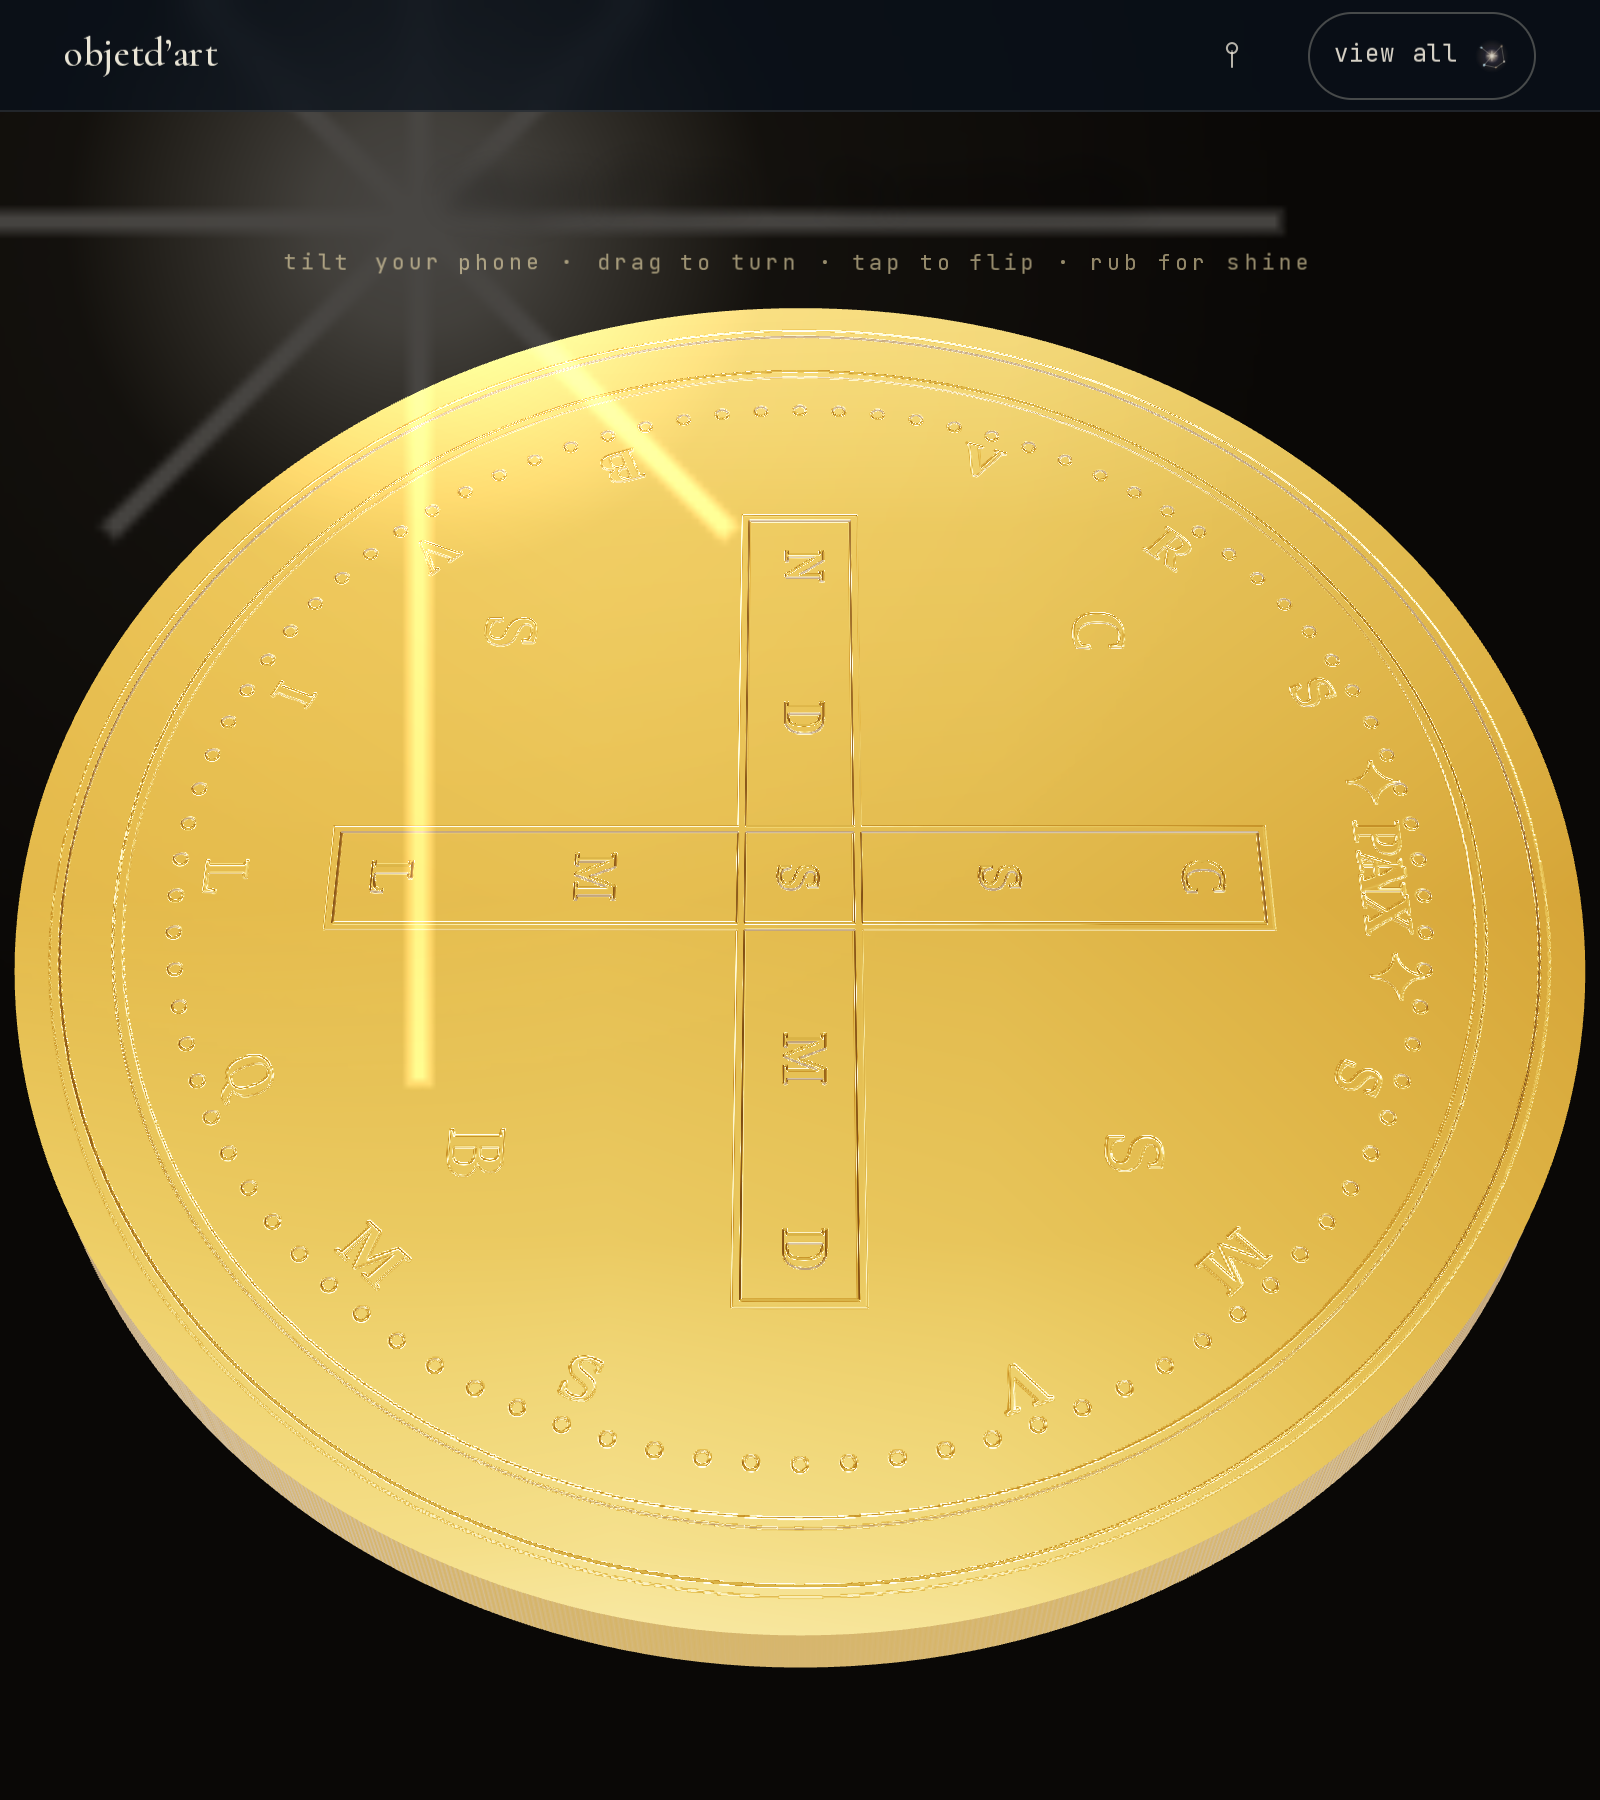
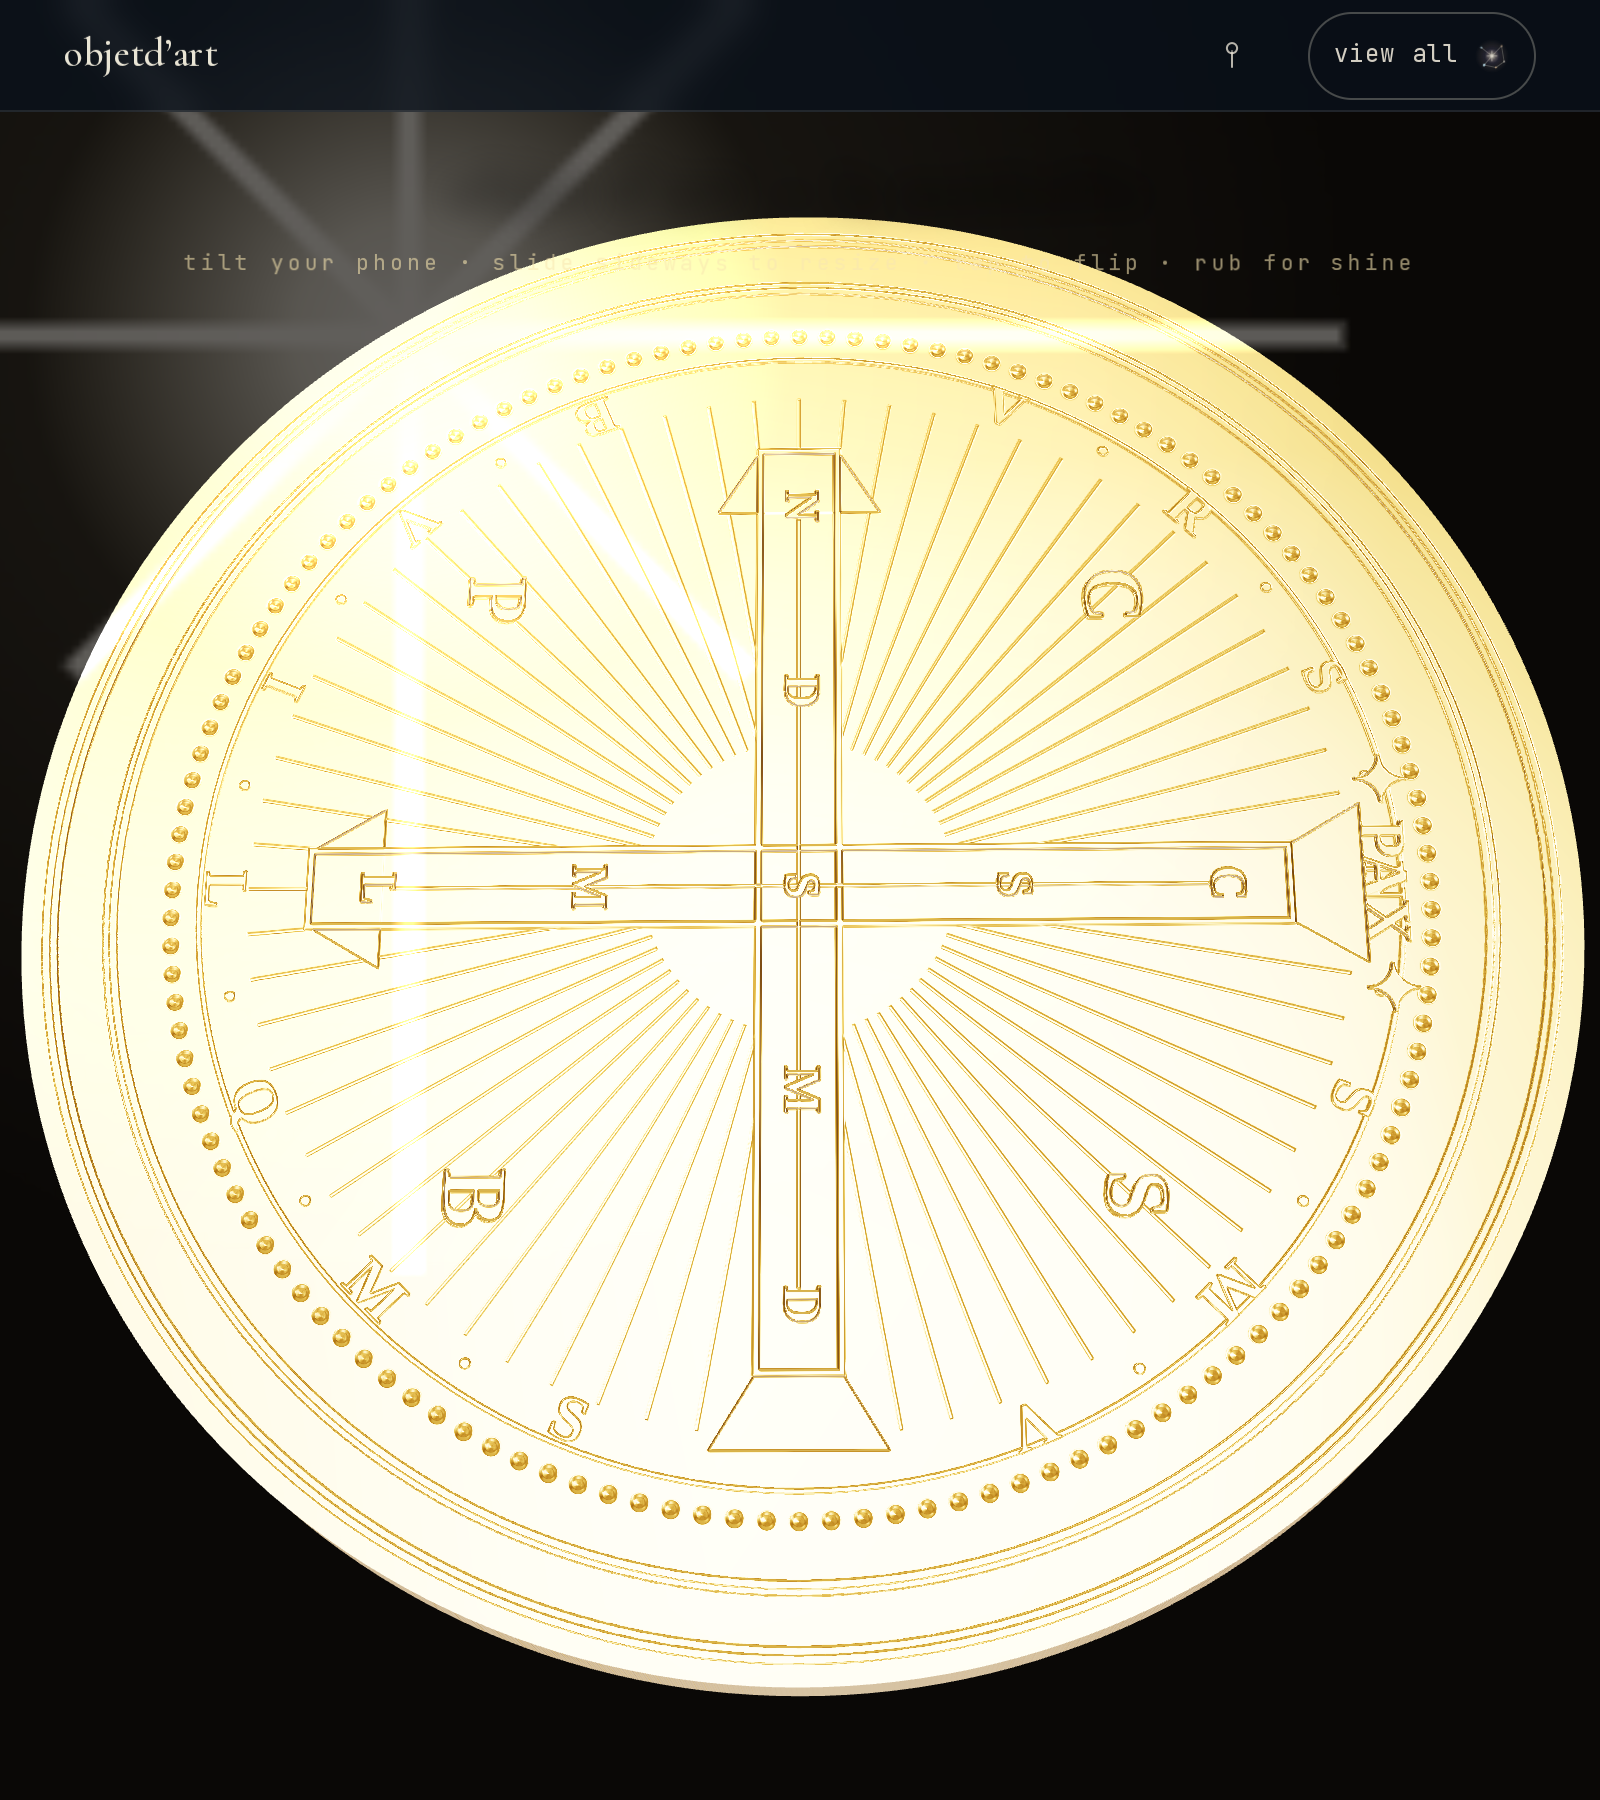
Coin: slide-to-resize gesture + high-fidelity St. Benedict medal on both faces
- Horizontal/diagonal slide now scales the coin (0.5×–2.4×); vertical drag
  tilts pitch; tap still flips; fast rub still triggers the shine sweep.
- Rewrote makeReliefTexture at 2048px for a faithful vector rendition of the
  St. Benedict Jubilee medal: cross face (pattée cross, C S S M L / N D S M D,
  quadrant C S P B, VRSNSMV·SMQLIVB rim, PAX, sunburst, dense beaded rim) and
  figure reverse (robed saint with halo, tall cross, the Rule book, poisoned
  cup with serpent, raven, sunburst glory, EIVS IN OBITV NOSTRO PRÆSENTIA
  MVNIAMVR rim, exergue).

Claude-Session: https://claude.ai/code/session_01DydoZAvwyz9eCJ8rpwmKwc

diff --git a/src/components/Coin.tsx b/src/components/Coin.tsx
@@ -44,87 +44,218 @@ function textArc(
 }
 
 // A grayscale relief canvas used as a bumpMap: mid grey ground, RAISED elements
-// light, RECESSED (engraved) elements dark. face = "front" (cross) | "back".
+// light, RECESSED (engraved) elements dark. face = "front" (cross) | "back"
+// (St. Benedict standing figure). Rendered as a faithful high-fidelity vector
+// rendition of the classic Saint-Benedict "Jubilee" medal.
 function makeReliefTexture(face: "front" | "back"): THREE.CanvasTexture {
-  const s = 1024;
+  const s = 2048;
   const c = document.createElement("canvas"); c.width = c.height = s;
   const x = c.getContext("2d")!;
   const C0 = s / 2;
+  const G = s / 1024; // scale factor vs. the original 1024 layout
   // ground
   x.fillStyle = "#8a8a8a"; x.fillRect(0, 0, s, s);
-  // raised outer rim ring
-  x.lineWidth = 34; x.strokeStyle = "#cfcfcf";
-  x.beginPath(); x.arc(C0, C0, s * 0.455, 0, Math.PI * 2); x.stroke();
-  x.lineWidth = 6; x.strokeStyle = "#4a4a4a";
-  x.beginPath(); x.arc(C0, C0, s * 0.475, 0, Math.PI * 2); x.stroke();
-  x.beginPath(); x.arc(C0, C0, s * 0.435, 0, Math.PI * 2); x.stroke();
-  // beaded inner border
-  for (let i = 0; i < 90; i++) {
-    const a = (i / 90) * Math.PI * 2;
-    x.fillStyle = "#d8d8d8";
-    x.beginPath(); x.arc(C0 + Math.cos(a) * s * 0.40, C0 + Math.sin(a) * s * 0.40, 4.5, 0, Math.PI * 2); x.fill();
+
+  // ── raised rim ring with fine engraved grooves (both faces) ──
+  x.lineWidth = 30 * G; x.strokeStyle = "#c6c6c6";
+  x.beginPath(); x.arc(C0, C0, s * 0.462, 0, Math.PI * 2); x.stroke();
+  x.lineWidth = 5 * G; x.strokeStyle = "#3f3f3f";
+  x.beginPath(); x.arc(C0, C0, s * 0.484, 0, Math.PI * 2); x.stroke();
+  x.beginPath(); x.arc(C0, C0, s * 0.441, 0, Math.PI * 2); x.stroke();
+  // beaded inner border (denser, higher-relief dots)
+  const beads = 132;
+  for (let i = 0; i < beads; i++) {
+    const a = (i / beads) * Math.PI * 2;
+    const bx = C0 + Math.cos(a) * s * 0.404, by = C0 + Math.sin(a) * s * 0.404;
+    const g = x.createRadialGradient(bx, by, 0, bx, by, 6 * G);
+    g.addColorStop(0, "#ececec"); g.addColorStop(0.6, "#c4c4c4"); g.addColorStop(1, "#7d7d7d");
+    x.fillStyle = g;
+    x.beginPath(); x.arc(bx, by, 6 * G, 0, Math.PI * 2); x.fill();
   }
+  // thin engraved circle just inside the beads
+  x.lineWidth = 3 * G; x.strokeStyle = "#5a5a5a";
+  x.beginPath(); x.arc(C0, C0, s * 0.386, 0, Math.PI * 2); x.stroke();
 
   if (face === "front") {
-    // rim legend (Vade Retro Satana… abbreviated) + PAX at bottom
-    x.fillStyle = "#3a3a3a";
-    textArc(x, "V R S N S M V", C0, C0, s * 0.372, 200, 340, 42);
-    textArc(x, "S M Q L I V B", C0, C0, s * 0.372, 20, 160, 42, true);
-    x.font = `700 46px Georgia, serif`; x.textAlign = "center"; x.textBaseline = "middle";
-    x.fillStyle = "#2e2e2e"; x.fillText("✦ PAX ✦", C0, C0 - s * 0.372);
-    // bold raised cross
-    const arm = s * 0.30, thick = s * 0.075;
-    x.fillStyle = "#dcdcdc";
+    // ── CROSS side ── rim legend of the Vade Retro Satana exorcism.
+    // top arc: V R S N S M V   bottom arc: S M Q L I V B
+    x.fillStyle = "#333";
+    textArc(x, "V·R·S·N·S·M·V", C0, C0, s * 0.372, 202, 338, 40 * G);
+    textArc(x, "S·M·Q·L·I·V·B", C0, C0, s * 0.372, 22, 158, 40 * G, true);
+    // PAX in a little raised banner at top, IHS-style flourishes at the sides
+    x.font = `700 ${44 * G}px Georgia, serif`; x.textAlign = "center"; x.textBaseline = "middle";
+    x.fillStyle = "#e2e2e2"; x.fillText("✦ PAX ✦", C0, C0 - s * 0.372 + 2);
+    x.fillStyle = "#2c2c2c"; x.font = `700 ${44 * G}px Georgia, serif`;
+    x.fillText("✦ PAX ✦", C0, C0 - s * 0.372);
+
+    // radiating fine sunrays behind the cross, filling the field
+    x.strokeStyle = "#9c9c9c"; x.lineWidth = 2 * G;
+    for (let i = 0; i < 72; i++) {
+      const a = (i / 72) * Math.PI * 2;
+      x.beginPath();
+      x.moveTo(C0 + Math.cos(a) * s * 0.10, C0 + Math.sin(a) * s * 0.10);
+      x.lineTo(C0 + Math.cos(a) * s * 0.355, C0 + Math.sin(a) * s * 0.355); x.stroke();
+    }
+
+    // ── the cross itself: a slender pattée cross with flared ends ──
+    const arm = s * 0.315, thick = s * 0.052;
+    const drawCrossArm = (horiz: boolean) => {
+      x.save();
+      x.translate(C0, C0);
+      if (horiz) x.rotate(Math.PI / 2);
+      // tapered raised bar with flared (pattée) terminal
+      x.fillStyle = "#e4e4e4";
+      x.beginPath();
+      x.moveTo(-thick / 2, 0); x.lineTo(-thick / 2, -arm + thick);
+      x.lineTo(-thick * 0.95, -arm); x.lineTo(thick * 0.95, -arm);
+      x.lineTo(thick / 2, -arm + thick); x.lineTo(thick / 2, 0);
+      x.lineTo(-thick / 2, arm - thick);
+      x.closePath();
+      // draw both halves symmetric: simpler — full vertical bar with flares
+      x.restore();
+    };
+    void drawCrossArm;
+    // simpler robust construction: raised bars + flared caps + engraved outline
+    x.fillStyle = "#e4e4e4";
+    // vertical & horizontal bars
     x.fillRect(C0 - thick / 2, C0 - arm, thick, arm * 2);
     x.fillRect(C0 - arm, C0 - thick / 2, arm * 2, thick);
-    x.strokeStyle = "#3a3a3a"; x.lineWidth = 5;
+    // flared pattée terminals
+    const flare = (cx: number, cy: number, horiz: boolean) => {
+      x.save(); x.translate(cx, cy); if (horiz) x.rotate(Math.PI / 2);
+      x.fillStyle = "#eaeaea"; x.beginPath();
+      x.moveTo(-thick / 2, 0); x.lineTo(-thick * 1.05, -thick * 0.9);
+      x.lineTo(thick * 1.05, -thick * 0.9); x.lineTo(thick / 2, 0); x.closePath(); x.fill();
+      x.restore();
+    };
+    flare(C0, C0 - arm, false); flare(C0, C0 + arm, false);
+    flare(C0 - arm, C0, true); flare(C0 + arm, C0, true);
+    // engraved bevel outline on the bars
+    x.strokeStyle = "#3a3a3a"; x.lineWidth = 4 * G;
     x.strokeRect(C0 - thick / 2, C0 - arm, thick, arm * 2);
     x.strokeRect(C0 - arm, C0 - thick / 2, arm * 2, thick);
-    // letters on the cross: vertical C S S M L, horizontal N D S M D
-    x.fillStyle = "#2b2b2b"; x.font = `700 40px Georgia, serif`;
-    const vs = ["C", "S", "S", "M", "L"]; // top→bottom
-    vs.forEach((ch, i) => x.fillText(ch, C0, C0 - arm + 44 + (i * (arm * 2 - 80)) / 4));
+    // inner engraved centre line for depth
+    x.strokeStyle = "#b8b8b8"; x.lineWidth = 2 * G;
+    x.beginPath(); x.moveTo(C0, C0 - arm + thick); x.lineTo(C0, C0 + arm - thick); x.stroke();
+    x.beginPath(); x.moveTo(C0 - arm + thick, C0); x.lineTo(C0 + arm - thick, C0); x.stroke();
+
+    // letters on the cross — vertical C S S M L (Crux Sacra Sit Mihi Lux),
+    // horizontal N D S M D (Non Draco Sit Mihi Dux). Engraved (dark).
+    x.fillStyle = "#232323"; x.textAlign = "center"; x.textBaseline = "middle";
+    x.font = `700 ${34 * G}px Georgia, serif`;
+    const vs = ["C", "S", "S", "M", "L"];
+    const span = arm * 2 - thick * 1.6;
+    vs.forEach((ch, i) => x.fillText(ch, C0, C0 - arm + thick * 0.8 + (i * span) / 4));
     const hs = ["N", "D", "S", "M", "D"];
-    hs.forEach((ch, i) => { if (i !== 2) x.fillText(ch, C0 - arm + 44 + (i * (arm * 2 - 80)) / 4, C0); });
-    // quadrant letters C S P B (Crux Sancti Patris Benedicti)
-    x.font = `700 52px Georgia, serif`;
-    const q = s * 0.20;
-    x.fillText("C", C0 - q, C0 - q); x.fillText("S", C0 + q, C0 - q);
-    x.fillText("S", C0 - q, C0 + q); x.fillText("B", C0 + q, C0 + q);
+    hs.forEach((ch, i) => { if (i !== 2) x.fillText(ch, C0 - arm + thick * 0.8 + (i * span) / 4, C0); });
+    // centre monogram letter where the arms meet
+    x.font = `700 ${30 * G}px Georgia, serif`; x.fillText("S", C0, C0);
+
+    // quadrant letters C S P B (Crux Sancti Patris Benedicti) in raised relief
+    x.fillStyle = "#dcdcdc"; x.font = `800 ${58 * G}px Georgia, serif`;
+    const q = s * 0.205;
+    const quad = (ch: string, dx: number, dy: number) => {
+      x.fillStyle = "#2b2b2b"; x.fillText(ch, C0 + dx + 2, C0 + dy + 2); // shadow
+      x.fillStyle = "#e6e6e6"; x.fillText(ch, C0 + dx, C0 + dy);         // raised
+    };
+    quad("C", -q, -q); quad("S", q, -q); quad("P", -q, q); quad("B", q, q);
   } else {
-    // reverse: rim legend + a standing figure with cross & book + rays
-    x.fillStyle = "#3a3a3a";
-    textArc(x, "EIVS IN OBITV", C0, C0, s * 0.372, 200, 340, 40);
-    textArc(x, "NOSTRO PRAESENTIA", C0, C0, s * 0.372, 12, 168, 34, true);
-    x.font = `700 40px Georgia, serif`; x.textAlign = "center"; x.textBaseline = "middle";
-    x.fillStyle = "#2e2e2e"; x.fillText("✦ MVNIAMVR ✦", C0, C0 - s * 0.372);
-    // radiating rays behind the figure
-    x.strokeStyle = "#bcbcbc"; x.lineWidth = 4;
-    for (let i = 0; i < 40; i++) {
-      const a = (i / 40) * Math.PI * 2;
-      x.beginPath(); x.moveTo(C0 + Math.cos(a) * 70, C0 + Math.sin(a) * 70);
-      x.lineTo(C0 + Math.cos(a) * s * 0.33, C0 + Math.sin(a) * s * 0.33); x.stroke();
+    // ── FIGURE side ── St. Benedict standing, cross in right hand, Rule in
+    // left, poisoned cup + raven at his feet. Rim legend of the death prayer.
+    x.fillStyle = "#333";
+    textArc(x, "EIVS·IN·OBITV·NOSTRO", C0, C0, s * 0.370, 200, 340, 34 * G);
+    textArc(x, "PRÆSENTIA·MVNIAMVR", C0, C0, s * 0.370, 20, 160, 32 * G, true);
+    // exergue label under the figure
+    x.font = `700 ${26 * G}px Georgia, serif`; x.textAlign = "center"; x.textBaseline = "middle";
+    x.fillStyle = "#2c2c2c"; x.fillText("EX·SM·CASINO·MDCCCLXXX", C0, C0 + s * 0.325);
+    // PAX cartouche at the very top
+    x.font = `700 ${40 * G}px Georgia, serif`;
+    x.fillStyle = "#e2e2e2"; x.fillText("✦ PAX ✦", C0, C0 - s * 0.372 + 2);
+    x.fillStyle = "#2c2c2c"; x.fillText("✦ PAX ✦", C0, C0 - s * 0.372);
+
+    // sunburst glory behind the saint
+    x.strokeStyle = "#a6a6a6"; x.lineWidth = 3 * G;
+    for (let i = 0; i < 56; i++) {
+      const a = (i / 56) * Math.PI * 2;
+      x.beginPath();
+      x.moveTo(C0 + Math.cos(a) * s * 0.085, C0 - s * 0.02 + Math.sin(a) * s * 0.085);
+      x.lineTo(C0 + Math.cos(a) * s * 0.30, C0 - s * 0.02 + Math.sin(a) * s * 0.30); x.stroke();
     }
-    // standing robed figure (stylised)
-    x.fillStyle = "#d6d6d6"; x.strokeStyle = "#333"; x.lineWidth = 5;
-    // robe
+
+    // pedestal / ground the saint stands on
+    x.fillStyle = "#cfcfcf"; x.strokeStyle = "#3a3a3a"; x.lineWidth = 4 * G;
+    x.fillRect(C0 - 210 * G, C0 + 300 * G, 420 * G, 46 * G);
+    x.strokeRect(C0 - 210 * G, C0 + 300 * G, 420 * G, 46 * G);
+
+    // robed standing figure
+    x.fillStyle = "#d8d8d8"; x.strokeStyle = "#333"; x.lineWidth = 5 * G;
     x.beginPath();
-    x.moveTo(C0 - 70, C0 + 190); x.lineTo(C0 - 40, C0 - 70);
-    x.quadraticCurveTo(C0, C0 - 120, C0 + 40, C0 - 70);
-    x.lineTo(C0 + 70, C0 + 190); x.closePath(); x.fill(); x.stroke();
+    x.moveTo(C0 - 130 * G, C0 + 300 * G);
+    x.lineTo(C0 - 78 * G, C0 - 150 * G);
+    x.quadraticCurveTo(C0, C0 - 210 * G, C0 + 78 * G, C0 - 150 * G);
+    x.lineTo(C0 + 130 * G, C0 + 300 * G);
+    x.closePath(); x.fill(); x.stroke();
+    // robe fold lines (engraved)
+    x.strokeStyle = "#9a9a9a"; x.lineWidth = 3 * G;
+    for (const off of [-55, -18, 20, 58]) {
+      x.beginPath(); x.moveTo(C0 + off * G, C0 - 120 * G);
+      x.quadraticCurveTo(C0 + off * 1.4 * G, C0 + 90 * G, C0 + off * 1.9 * G, C0 + 290 * G); x.stroke();
+    }
+    // cowl / shoulders
+    x.fillStyle = "#d0d0d0"; x.strokeStyle = "#333"; x.lineWidth = 4 * G;
+    x.beginPath();
+    x.moveTo(C0 - 82 * G, C0 - 120 * G);
+    x.quadraticCurveTo(C0, C0 - 175 * G, C0 + 82 * G, C0 - 120 * G);
+    x.quadraticCurveTo(C0, C0 - 95 * G, C0 - 82 * G, C0 - 120 * G);
+    x.fill(); x.stroke();
     // head + halo
-    x.beginPath(); x.arc(C0, C0 - 110, 34, 0, Math.PI * 2); x.fill(); x.stroke();
-    x.lineWidth = 4; x.beginPath(); x.arc(C0, C0 - 110, 48, 0, Math.PI * 2); x.stroke();
-    // tall cross (left hand) + book (right hand)
-    x.lineWidth = 12; x.strokeStyle = "#cfcfcf";
-    x.beginPath(); x.moveTo(C0 - 120, C0 - 150); x.lineTo(C0 - 120, C0 + 150); x.stroke();
-    x.beginPath(); x.moveTo(C0 - 150, C0 - 90); x.lineTo(C0 - 90, C0 - 90); x.stroke();
-    x.fillStyle = "#cfcfcf"; x.strokeStyle = "#333"; x.lineWidth = 4;
-    x.fillRect(C0 + 78, C0 - 10, 70, 90); x.strokeRect(C0 + 78, C0 - 10, 70, 90);
-    x.beginPath(); x.moveTo(C0 + 113, C0 - 10); x.lineTo(C0 + 113, C0 + 80); x.stroke();
-    // ground line
-    x.lineWidth = 6; x.strokeStyle = "#555";
-    x.beginPath(); x.moveTo(C0 - 130, C0 + 200); x.lineTo(C0 + 130, C0 + 200); x.stroke();
+    x.fillStyle = "#dcdcdc";
+    x.beginPath(); x.arc(C0, C0 - 205 * G, 42 * G, 0, Math.PI * 2); x.fill(); x.stroke();
+    x.lineWidth = 4 * G; x.strokeStyle = "#4a4a4a";
+    x.beginPath(); x.arc(C0, C0 - 210 * G, 60 * G, 0, Math.PI * 2); x.stroke();
+
+    // tall cross in his (viewer-left) hand
+    x.strokeStyle = "#e0e0e0"; x.lineCap = "round";
+    x.lineWidth = 13 * G;
+    x.beginPath(); x.moveTo(C0 - 168 * G, C0 - 250 * G); x.lineTo(C0 - 168 * G, C0 + 250 * G); x.stroke();
+    x.beginPath(); x.moveTo(C0 - 210 * G, C0 - 170 * G); x.lineTo(C0 - 126 * G, C0 - 170 * G); x.stroke();
+    x.lineCap = "butt";
+    // the Holy Rule (book) in his other hand
+    x.fillStyle = "#cfcfcf"; x.strokeStyle = "#333"; x.lineWidth = 4 * G;
+    x.fillRect(C0 + 118 * G, C0 - 30 * G, 92 * G, 118 * G);
+    x.strokeRect(C0 + 118 * G, C0 - 30 * G, 92 * G, 118 * G);
+    x.beginPath(); x.moveTo(C0 + 164 * G, C0 - 30 * G); x.lineTo(C0 + 164 * G, C0 + 88 * G); x.stroke();
+    x.strokeStyle = "#8a8a8a"; x.lineWidth = 2 * G;
+    for (const ry of [-8, 6, 20, 34, 48, 62]) {
+      x.beginPath(); x.moveTo(C0 + 126 * G, C0 + ry * G); x.lineTo(C0 + 158 * G, C0 + ry * G); x.stroke();
+      x.beginPath(); x.moveTo(C0 + 170 * G, C0 + ry * G); x.lineTo(C0 + 202 * G, C0 + ry * G); x.stroke();
+    }
+
+    // poisoned cup with a serpent (viewer-left, at his feet)
+    x.strokeStyle = "#333"; x.lineWidth = 4 * G; x.fillStyle = "#cbcbcb";
+    x.beginPath();
+    x.moveTo(C0 - 250 * G, C0 + 180 * G); x.lineTo(C0 - 205 * G, C0 + 260 * G);
+    x.lineTo(C0 - 165 * G, C0 + 260 * G); x.lineTo(C0 - 120 * G, C0 + 180 * G);
+    x.closePath(); x.fill(); x.stroke();
+    x.beginPath(); x.arc(C0 - 185 * G, C0 + 285 * G, 16 * G, 0, Math.PI * 2); x.stroke(); // foot
+    // serpent rising from the cup
+    x.strokeStyle = "#e0e0e0"; x.lineWidth = 6 * G; x.lineCap = "round";
+    x.beginPath();
+    x.moveTo(C0 - 185 * G, C0 + 180 * G);
+    x.quadraticCurveTo(C0 - 240 * G, C0 + 120 * G, C0 - 190 * G, C0 + 96 * G);
+    x.quadraticCurveTo(C0 - 150 * G, C0 + 78 * G, C0 - 200 * G, C0 + 60 * G); x.stroke();
+    x.lineCap = "butt";
+
+    // raven with a morsel of bread (viewer-right, at his feet)
+    x.fillStyle = "#cbcbcb"; x.strokeStyle = "#333"; x.lineWidth = 3 * G;
+    x.beginPath();
+    x.ellipse(C0 + 175 * G, C0 + 245 * G, 46 * G, 24 * G, -0.3, 0, Math.PI * 2);
+    x.fill(); x.stroke();
+    x.beginPath(); x.arc(C0 + 205 * G, C0 + 220 * G, 16 * G, 0, Math.PI * 2); x.fill(); x.stroke(); // head
+    x.beginPath(); x.moveTo(C0 + 220 * G, C0 + 218 * G); x.lineTo(C0 + 246 * G, C0 + 224 * G);
+    x.lineTo(C0 + 220 * G, C0 + 230 * G); x.closePath(); x.fill(); x.stroke(); // beak
+    x.beginPath(); x.moveTo(C0 + 150 * G, C0 + 235 * G); x.lineTo(C0 + 120 * G, C0 + 210 * G);
+    x.lineTo(C0 + 150 * G, C0 + 250 * G); x.closePath(); x.fill(); x.stroke(); // wing
   }
   const t = new THREE.CanvasTexture(c);
   t.colorSpace = THREE.SRGBColorSpace; t.anisotropy = 8;
@@ -224,6 +355,7 @@ export default function Coin() {
     const tilt = { x: 0, y: 0, tx: 0, ty: 0 };     // eased vs target rotation from tilt/drag
     const flip = { cur: 0, target: 0 };            // accumulating flip spin (radians)
     const shine = { v: 0 };                        // star glint strength
+    const size = { v: 1, t: 1 };                   // coin scale (lateral slide → resize)
     const drag = { on: false, px: 0, py: 0, moved: 0, downT: 0, lastRub: 0 };
 
     // ── audio ──
@@ -254,7 +386,8 @@ export default function Coin() {
       const dx = e.clientX - drag.px, dy = e.clientY - drag.py;
       drag.px = e.clientX; drag.py = e.clientY;
       drag.moved += Math.abs(dx) + Math.abs(dy);
-      tilt.ty += dx * 0.006;   // yaw
+      // lateral / diagonal slide → resize the coin; vertical → tilt (pitch)
+      size.t = Math.max(0.5, Math.min(2.4, size.t + dx * 0.004));
       tilt.tx += dy * 0.006;   // pitch
       tilt.tx = Math.max(-1.1, Math.min(1.1, tilt.tx));
       const now = performance.now();
@@ -317,7 +450,9 @@ export default function Coin() {
       flip.cur += remain * 0.14;
       const tossing = Math.min(1, Math.abs(remain) / 3);
       coinGroup.position.z = tossing * 3.2;
-      coinGroup.scale.setScalar(1 + tossing * 0.06);
+      // ease the slide-driven size, combined with the flip toss
+      size.v += (size.t - size.v) * 0.16;
+      coinGroup.scale.setScalar(size.v * (1 + tossing * 0.06));
 
       coinGroup.rotation.x = tilt.x + flip.cur;
       coinGroup.rotation.y = tilt.y;
@@ -366,7 +501,7 @@ export default function Coin() {
     <div ref={wrapRef} style={{ position: "fixed", inset: 0, background: "#0a0806" }}>
       <div className="coin-hud">
         <div className="coin-title">objet&nbsp;d&rsquo;art — la médaille</div>
-        <div className="coin-hint" ref={hintRef}>tilt your phone · drag to turn · tap to flip · rub for shine</div>
+        <div className="coin-hint" ref={hintRef}>tilt your phone · slide sideways to resize · tap to flip · rub for shine</div>
       </div>
       <style dangerouslySetInnerHTML={{ __html: `
         .coin-hud {